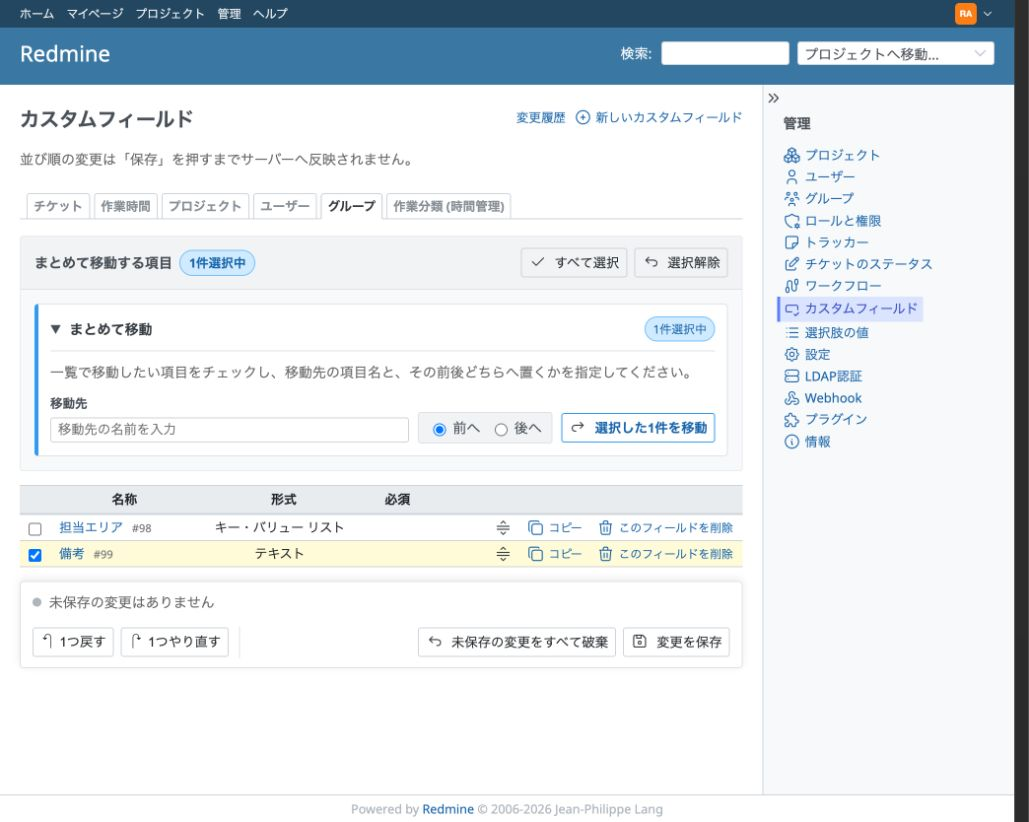
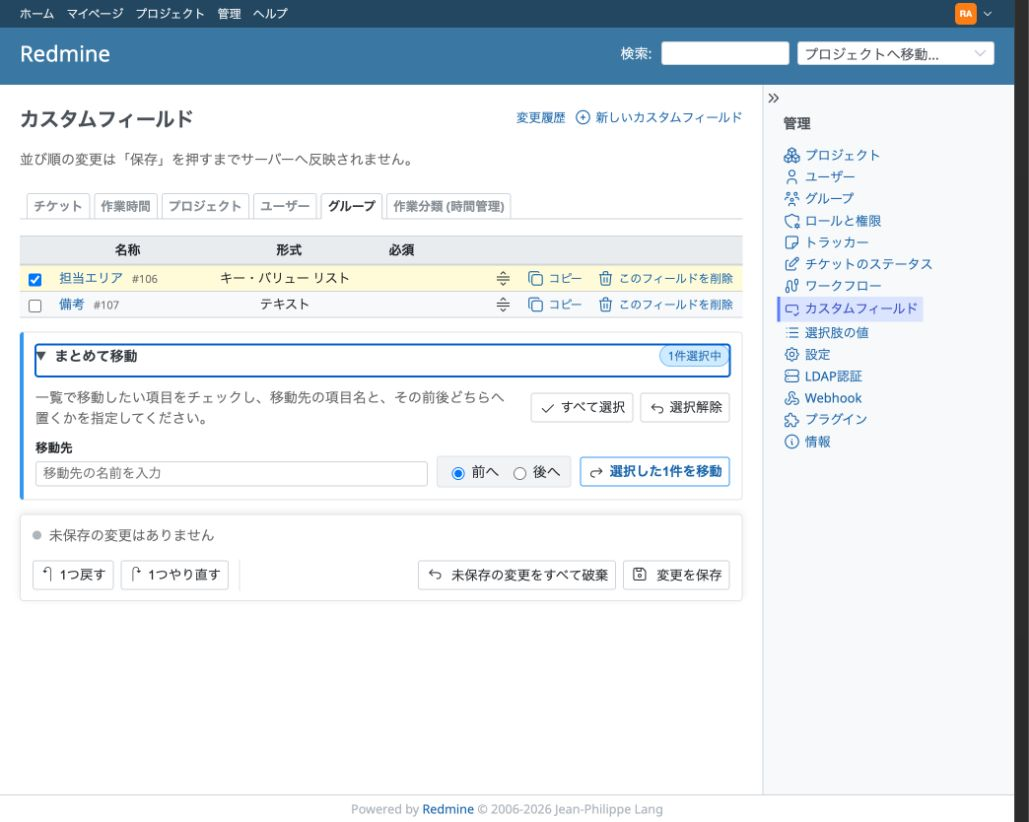
Place bulk move controls after field list

Changed region(s): [[0.0, 0.2737, 0.7464, 0.7908], [0.4043, 0.7603, 0.7153, 0.7908]]

diff --git a/test/browser/manager.spec.js b/test/browser/manager.spec.js
@@ -276,7 +276,12 @@ test.describe.serial('custom field manager browser behavior', function() {
     const manager = page.locator('.rcfm-manager').filter({has: page.locator('input[name="field_type"][value="GroupCustomField"]')});
     const source = manager.locator('tr[data-rcfm-id="' + fieldId + '"]');
     const target = manager.locator('tr[data-rcfm-id]').filter({hasText: 'RCFM browser target'});
-    await expect(manager.locator('.rcfm-selection-summary')).toContainText('Items to move');
+    await expect(manager.locator('.rcfm-selection-bar')).toHaveCount(0);
+    const tableBox = await manager.locator('table.custom_fields').boundingBox();
+    const bulkMoveBox = await manager.locator('.rcfm-custom-field-bulk-tools').boundingBox();
+    expect(tableBox).not.toBeNull();
+    expect(bulkMoveBox).not.toBeNull();
+    expect(tableBox.y).toBeLessThan(bulkMoveBox.y);
     await expect(source.locator('.rcfm-select')).toHaveAttribute('aria-label', /for moving/);
     await expect(source.locator('.rcfm-delete-custom-field')).toHaveAttribute(
       'data-confirm',
@@ -288,7 +293,7 @@ test.describe.serial('custom field manager browser behavior', function() {
     await expect(manager.locator('.rcfm-error')).toContainText('Select one or more items');
     await source.locator('.rcfm-select').check();
     await expect(manager.locator('.rcfm-error')).toBeHidden();
-    await expect(manager.locator('.rcfm-selection-count')).toHaveText('1 selected');
+    await expect(manager.locator('.rcfm-bulk-move-count')).toHaveText('1 selected');
     await expect(manager.locator('.rcfm-move-selected-label')).toHaveText('Move 1 selected');
     await manager.locator('.rcfm-target').fill('RCFM browser target');
     await manager.locator('input[type="radio"][value="after"]').check();

diff --git a/assets/stylesheets/custom_field_manager.css b/assets/stylesheets/custom_field_manager.css
@@ -146,6 +146,30 @@
   margin: 0 0 0.75em;
 }
 
+.rcfm-custom-field-bulk-tools {
+  margin-top: 1em;
+}
+
+.rcfm-custom-field-bulk-tools > .rcfm-error {
+  margin-top: 0.75em;
+}
+
+.rcfm-bulk-move-introduction {
+  align-items: center;
+  display: flex;
+  gap: 1em;
+  justify-content: space-between;
+  margin-bottom: 0.75em;
+}
+
+.rcfm-bulk-move-introduction .rcfm-bulk-move-help {
+  margin: 0;
+}
+
+.rcfm-bulk-move-introduction .rcfm-selection-controls {
+  flex: 0 0 auto;
+}
+
 .rcfm-destructive-actions {
   border-top: 1px solid var(--oc-gray-3, #ddd);
   grid-column: 1 / -1;
@@ -480,6 +504,11 @@
 
   .rcfm-selection-controls {
     width: 100%;
+  }
+
+  .rcfm-bulk-move-introduction {
+    align-items: flex-start;
+    flex-direction: column;
   }
 
   .rcfm-operation-grid,

diff --git a/test/integration/custom_fields_view_test.rb b/test/integration/custom_fields_view_test.rb
@@ -14,14 +14,16 @@ class RedmineCustomFieldManagerCustomFieldsViewTest < Redmine::IntegrationTest
     assert_select 'input.rcfm-base-snapshot'
     assert_select 'button.rcfm-undo', :text => 'Undo'
     assert_select 'button.rcfm-redo', :text => 'Redo'
-    assert_select '.rcfm-selection-bar button.rcfm-select-all'
-    assert_select 'details.rcfm-operation-panel--move:not([open]) button.rcfm-move-selected'
+    assert_select '.rcfm-selection-bar', :count => 0
+    assert_select '.rcfm-custom-field-bulk-tools details.rcfm-operation-panel--move:not([open]) button.rcfm-move-selected'
+    assert_select '.rcfm-custom-field-bulk-tools button.rcfm-select-all'
     assert_select '.rcfm-operation-panel--move summary', :text => /Move multiple items/
     assert_select '.rcfm-bulk-move-help', :text => /Select the items to move/
     assert_select '.rcfm-commit-bar button.rcfm-save.rcfm-button-primary', :text => 'Save changes'
     assert_select '.rcfm-commit-bar button.rcfm-reset', :text => 'Discard all unsaved changes'
-    assert_select '.rcfm-selection-count', :text => '0 selected'
-    assert_select '.rcfm-selection-summary', :text => /Items to move/
+    assert_select '.rcfm-bulk-move-count', :text => '0 selected'
+    assert_operator response.body.index('class="list custom_fields rcfm-sortable"'), :<,
+                    response.body.index('class="rcfm-custom-field-bulk-tools"')
     assert_select 'th', :text => /Individual actions/
     assert_select 'input.rcfm-select[aria-label*="for moving"]'
     assert_select 'a.rcfm-delete-custom-field[data-confirm*="Other checked fields will not be deleted"]'

diff --git a/README.ja.md b/README.ja.md
@@ -22,7 +22,7 @@ Redmine Custom Field Manager は、カスタムフィールドの並び順と大
 
 ### カスタムフィールドの保存前並べ替え
 
-個別行をドラッグするか、折りたたまれた**まとめて移動**を開いて、選んだ複数フィールドを指定した移動先の前後へ移動できます。移動先の名称が一意なら名前だけで確定できます。同名項目が複数ある場合は現在の一覧位置を付けた候補が表示され、クリックで選べるため、内部IDを把握・入力する必要はありません。IDは補助情報としてのみ表示します。チェックボックスはまとめて移動だけに使い、各行の操作は別の列に分けています。未保存件数は新しい並びを説明する最小限の移動行数なので、100件中の最下行を先頭へ移しても「1件を移動」と表示します。
+個別行をドラッグするか、一覧で対象を選んでから直下の折りたたまれた**まとめて移動**を開き、複数フィールドを指定した移動先の前後へ移動できます。移動先の名称が一意なら名前だけで確定できます。同名項目が複数ある場合は現在の一覧位置を付けた候補が表示され、クリックで選べるため、内部IDを把握・入力する必要はありません。IDは補助情報としてのみ表示します。チェックボックスはまとめて移動だけに使い、各行の操作は別の列に分けています。未保存件数は新しい並びを説明する最小限の移動行数なので、100件中の最下行を先頭へ移しても「1件を移動」と表示します。
 
 **このフィールドを削除**は、必ずその1行だけを即時に削除します。確認画面にはフィールド名、チェック中の他行へ影響しないこと、そのフィールド・選択肢・保存値が削除され、プラグインでは復元できないことを明記します。
 
@@ -76,7 +76,7 @@ Redmine Custom Field Manager は、カスタムフィールドの並び順と大
 ### カスタムフィールドを並べ替える
 
 1. **管理 → カスタムフィールド**を開き、フィールド種別のタブを選びます。
-2. 行をドラッグするか、**まとめて移動**を開いて移動する行を選びます。
+2. 行をドラッグするか、移動する行を選んで一覧直下の**まとめて移動**を開きます。
 3. 移動先のフィールド名を入力し、**前へ**または**後へ**を選んで移動します。同名の移動先が複数ある場合は、現在の一覧位置で区別された候補をクリックします。
 4. 保存前の状態を確認します。必要なら**1つ戻す**、**1つやり直す**、**未保存の変更をすべて破棄**を使います。
 5. **保存**を押し、そのフィールド種別の並び順全体を確定します。

diff --git a/README.md b/README.md
@@ -22,7 +22,7 @@ The screenshots below use Redmine 7.0 with the Japanese locale. Labels may diffe
 
 ### Staged custom-field ordering
 
-Drag individual rows, or open the collapsed **Move multiple items** panel to select several fields and move them before or after a named destination. A unique destination can be entered by name alone. If names are duplicated, the page presents clickable choices labeled with their current list positions; users never need to know or enter an internal ID. IDs remain visible only as supplementary information. Checkboxes are used only for bulk moves; per-row actions are shown separately. The pending counter reports the smallest set of moved rows that explains the new order, so moving the last of 100 fields to the top is shown as one move rather than 100 changed positions.
+Drag individual rows, or select rows in the list and open the collapsed **Move multiple items** panel directly below it to move several fields before or after a named destination. A unique destination can be entered by name alone. If names are duplicated, the page presents clickable choices labeled with their current list positions; users never need to know or enter an internal ID. IDs remain visible only as supplementary information. Checkboxes are used only for bulk moves; per-row actions are shown separately. The pending counter reports the smallest set of moved rows that explains the new order, so moving the last of 100 fields to the top is shown as one move rather than 100 changed positions.
 
 **Delete this field** always deletes only that row, immediately. Its confirmation names the field, explains that other checked rows are unaffected, and warns that the field, its options, and stored values will be deleted and cannot be restored by this plugin.
 
@@ -76,7 +76,7 @@ For an update, replace the plugin files while Redmine is stopped, run the same m
 ### Reorder custom fields
 
 1. Open **Administration → Custom fields** and select a field-type tab.
-2. Drag a row, or open **Move multiple items** and select the rows to move.
+2. Drag a row, or select the rows to move and open **Move multiple items** below the list.
 3. Enter a destination field name, choose **Before** or **After**, and move the selection. If several destinations have the same name, click the choice identified by its current list position.
 4. Review the pending state. Use **Undo one step**, **Redo one step**, or **Discard all unsaved changes** if needed.
 5. Press **Save** to commit the complete order for that field type.

diff --git a/docs/specification.md b/docs/specification.md
@@ -40,7 +40,7 @@ Redmine標準の管理画面を**置き換える**。別個の高度管理画面
 - 同名項目が複数ある場合は、現在の一覧位置を付けた候補を画面内に表示し、利用者がクリックして移動先を確定できるようにする。内部IDは補助表示および内部的な識別にだけ用い、利用者に把握・入力を求めない。移動対象自身の候補は「選択中」と明示して選択不可にし、候補がすべて移動対象なら理由をエラーで示す。
 - 一括移動時の選択項目同士の相対順序は維持する。
 - 一括操作中は現在の選択件数を表示する。
-- 一括移動は「まとめて移動」として初期状態では折りたたみ、展開後に選択、移動先、前後指定の手順を説明する。カスタムフィールド一覧のチェックボックスはまとめて移動の対象指定であることを明示し、行ごとの個別操作とは区別する。
+- 一括移動はカスタムフィールド一覧の直下に「まとめて移動」として配置し、初期状態では折りたたむ。展開後に対象選択、移動先、前後指定の手順を説明する。カスタムフィールド一覧のチェックボックスはまとめて移動の対象指定であることを明示し、行ごとの個別操作とは区別する。
 - 未保存の移動件数は絶対位置が変わった行数ではなく、変更前後の相対順序から求めた**最小移動項目数**として表示する。追加・削除だけで後続位置がずれた項目は移動件数に含めない。
 - 操作ボタンは目的別に配置する。項目選択は一覧操作の先頭、選択項目への操作と移動は別グループ、Undo／Redoと変更の破棄／保存は一覧末尾の確定バーにまとめる。「保存」は確定操作として視覚的に最も強くし、「削除」は同じグループ内の通常操作から分離して危険操作であることを示す。
 
